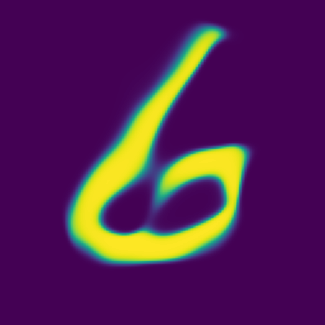
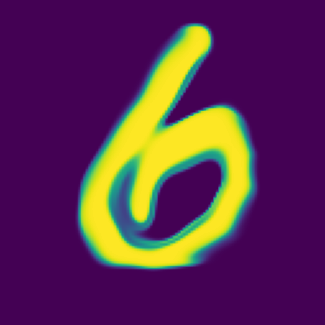
update

Changed region(s): [[0.1846, 0.0615, 0.8, 0.8308]]

diff --git a/dl/gan/README.md b/dl/gan/README.md
@@ -33,7 +33,8 @@
 
 ## 生成結果
 
-下圖是大小為 28 與 128 的生成結果，雖然在訓練過程中是使用 28x28 的圖片進行訓練，但這並不會成為對生成器輸出大小的限制。
+下圖是大小為 28、128、256 的生成結果，雖然在訓練過程中是使用 28x28 的圖片進行訓練，但這並不會成為對生成器輸出大小的限制。
 
 ![Six, size=28](./img/six_28.png "Six, size=28")
 ![Six, size=128](./img/six_128.png "Six, size=128")
+![Six, size=256](./img/six_256.png "Six, size=256")
